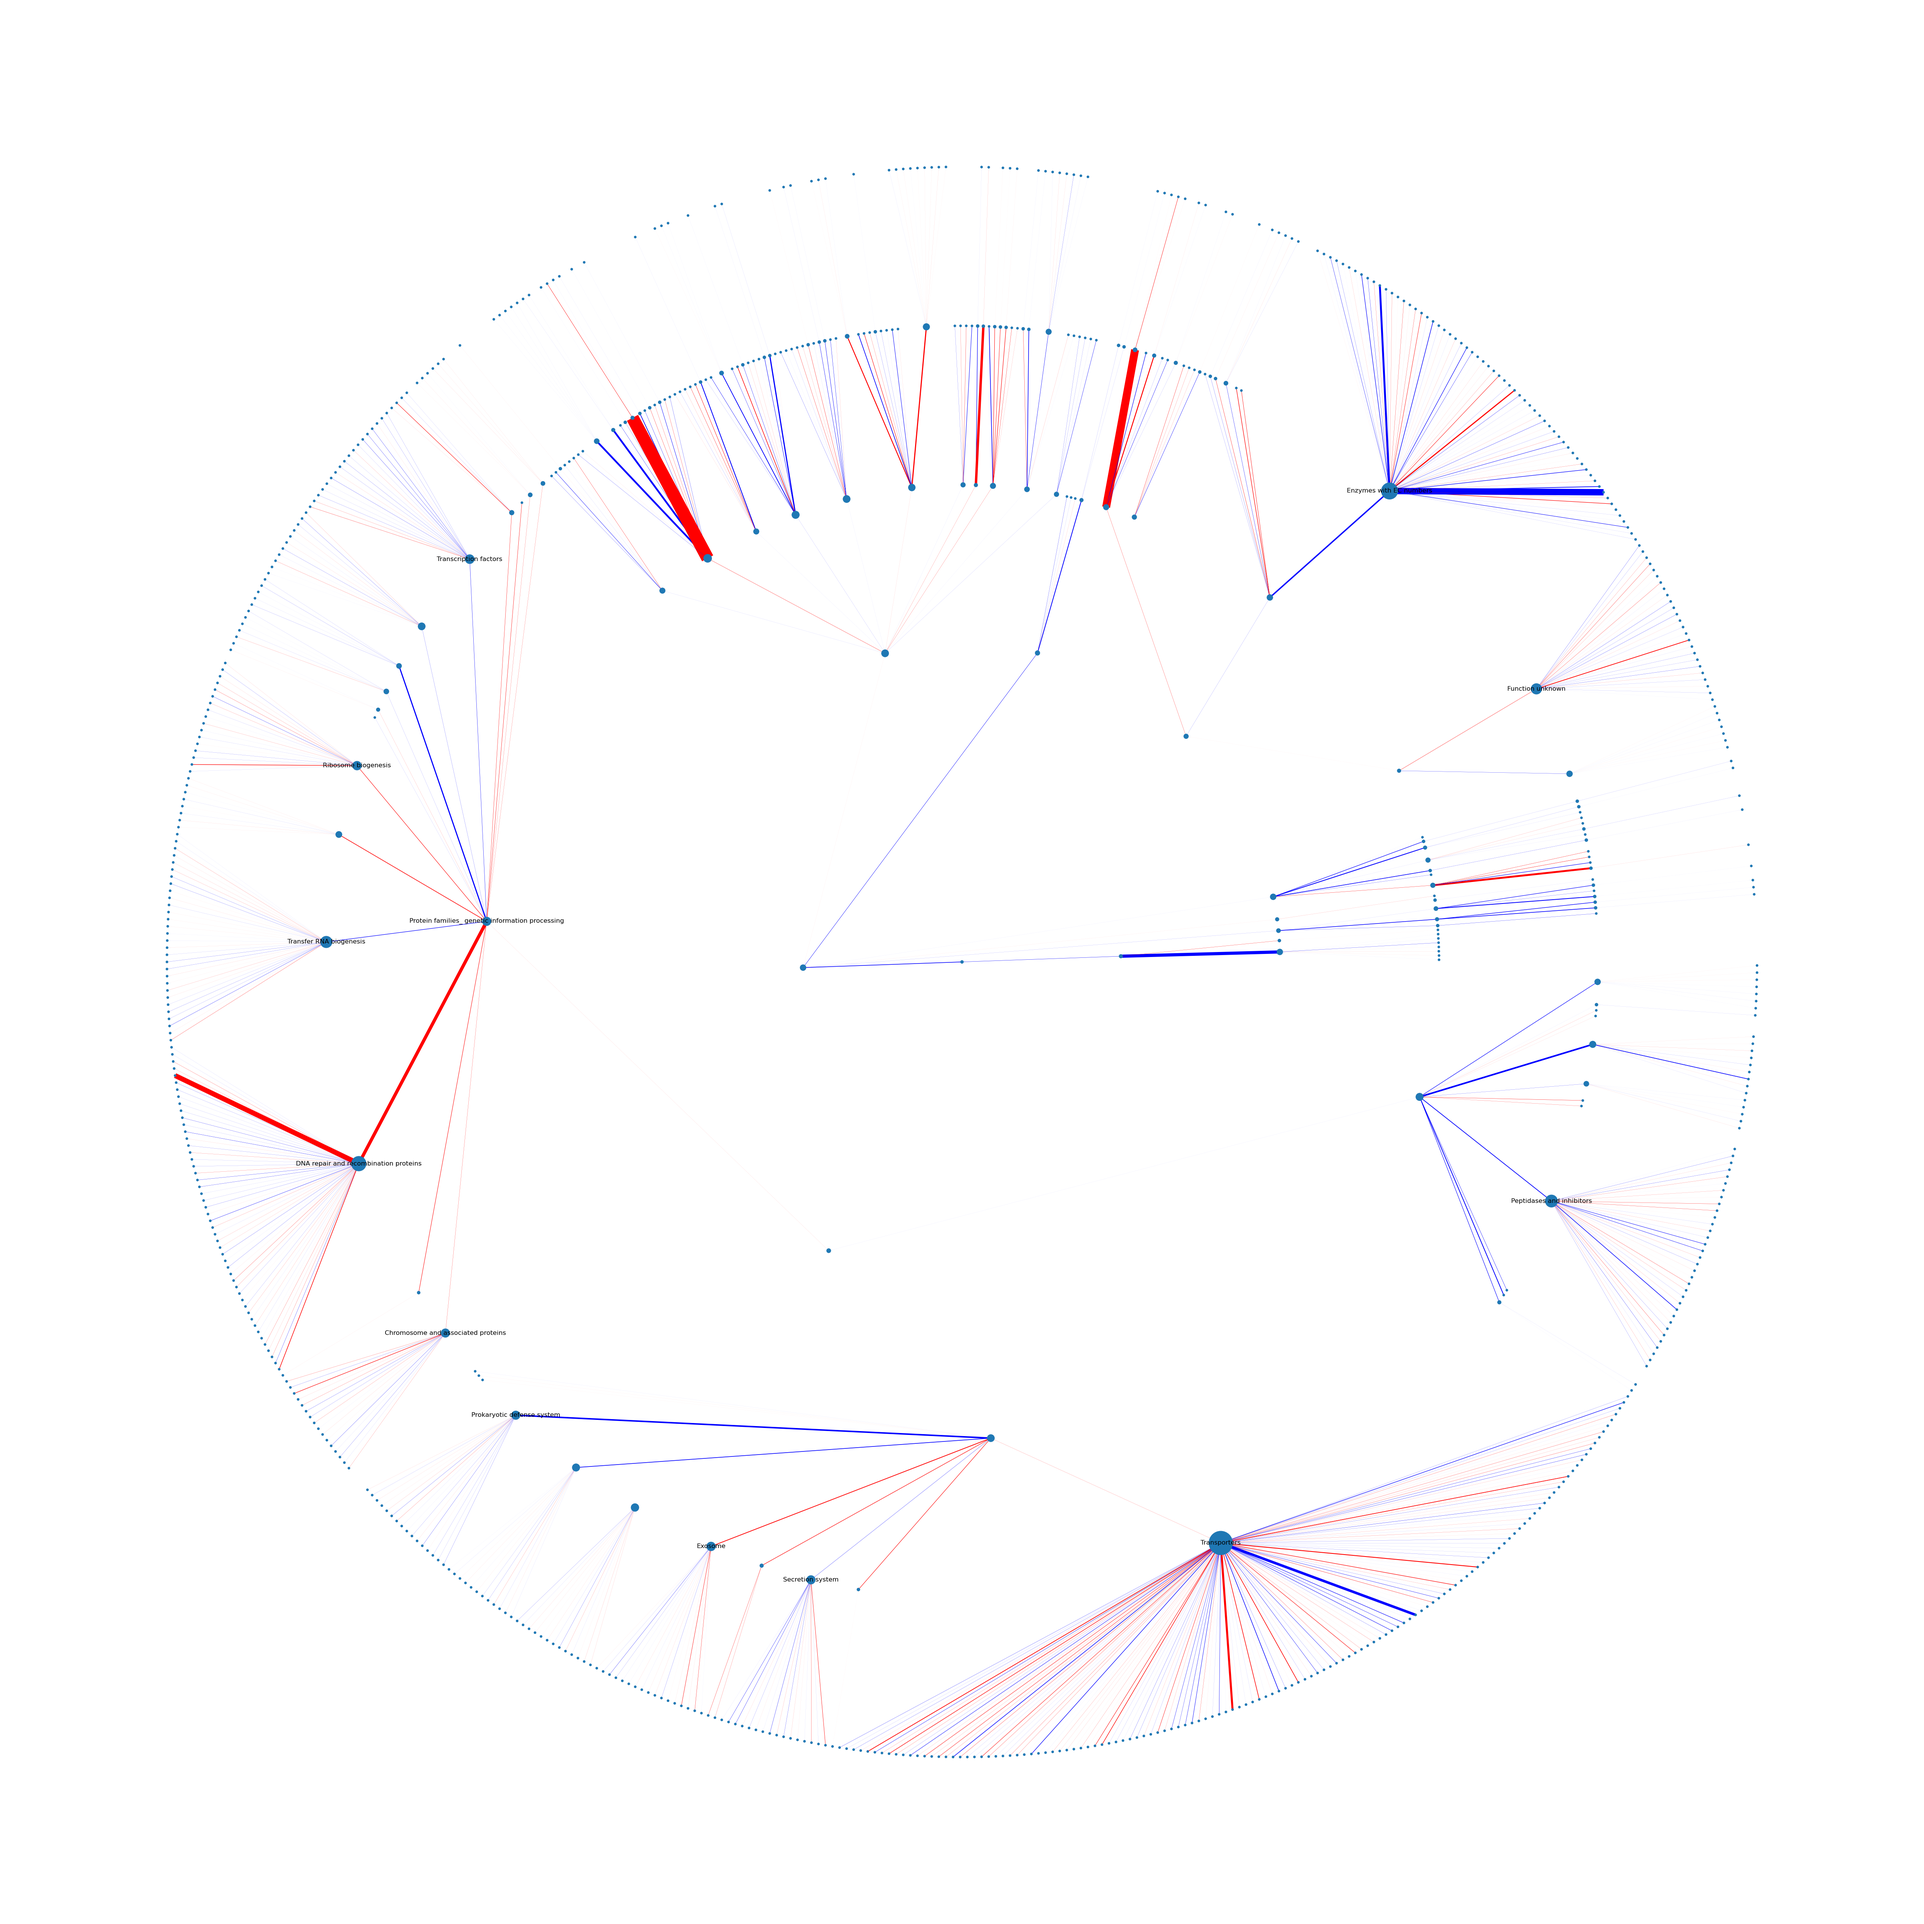
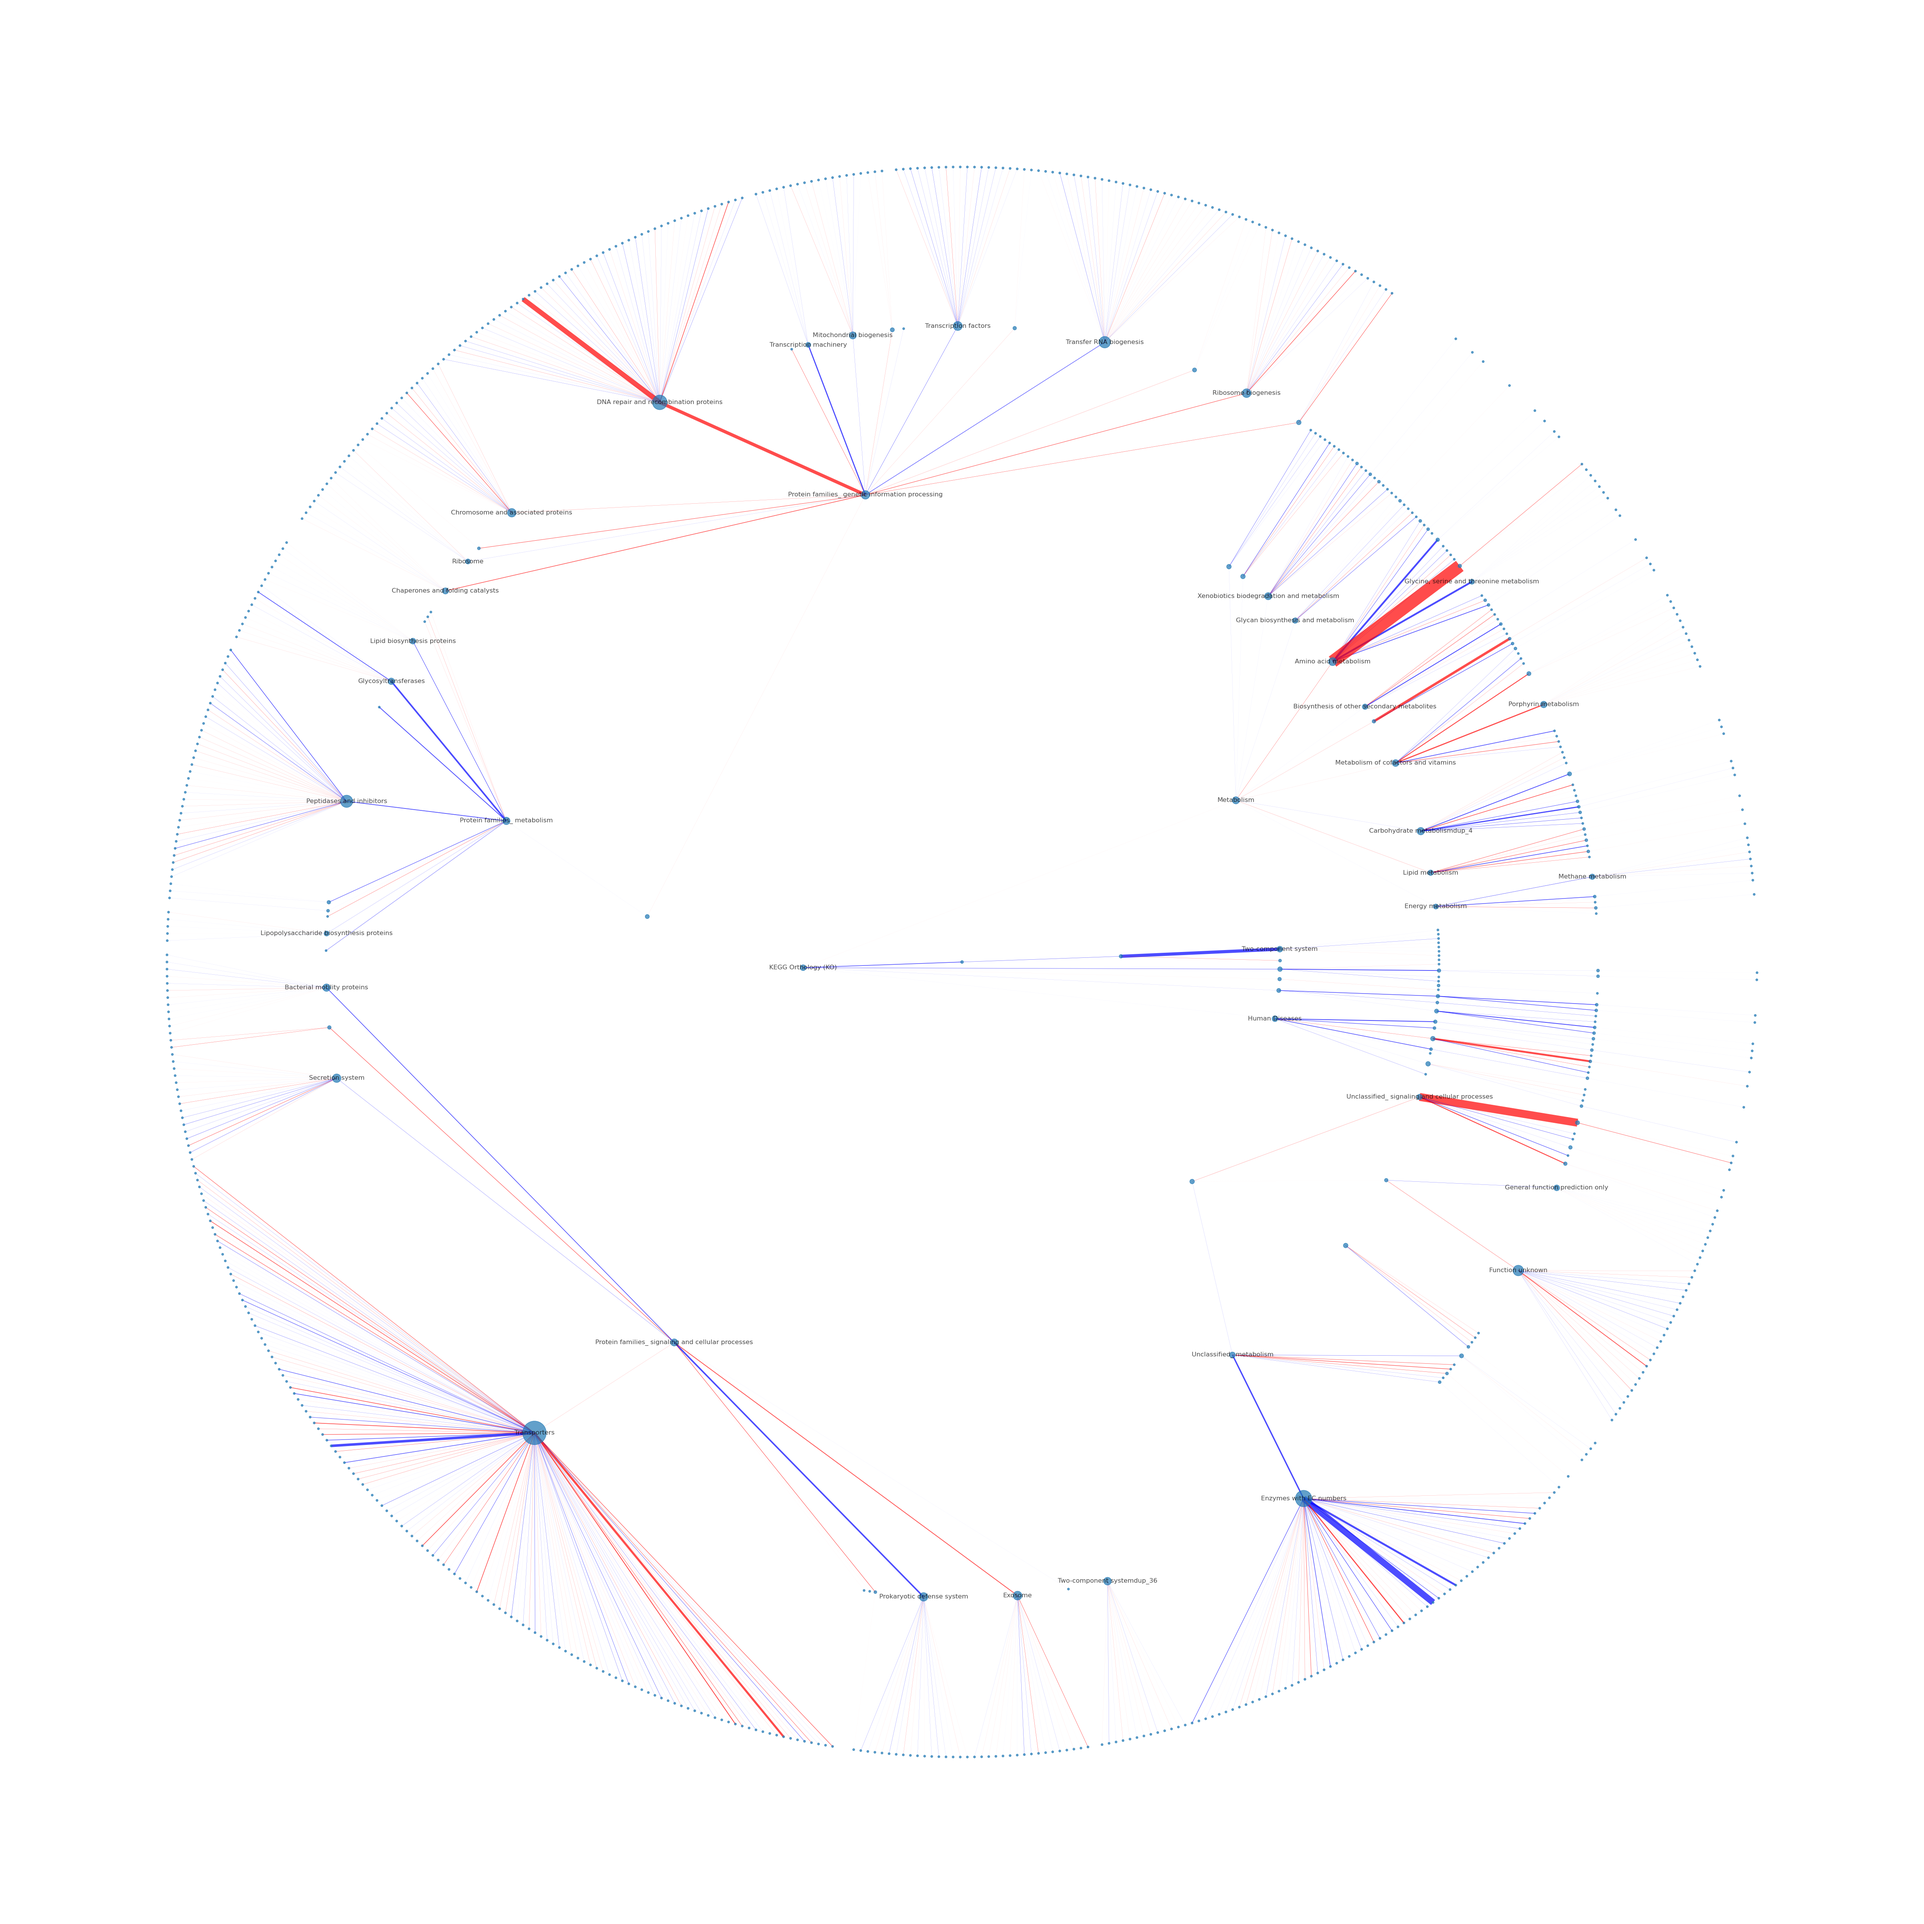
updated plot

diff --git a/scripts/process_diffab.py b/scripts/process_diffab.py
@@ -122,7 +122,7 @@ colors = [T[u][v]['color'] for u, v in T.edges()]
 
 new_labels = {}
 for u in T.nodes():
-    if T.degree(u) <= 15:
+    if T.degree(u) <= 5:
         new_labels[u] = ""
     else:
         new_labels[u] = u
@@ -130,5 +130,5 @@ for u in T.nodes():
 
 node_size_by_degree = [ T.degree(node)*15 for node in T.nodes() ]
 
-nx.draw(T, pos, node_size=node_size_by_degree, with_labels=True, arrows=False, arrowsize=0, width=widths, edge_color=colors, labels=new_labels)
+nx.draw(T, pos, node_size=node_size_by_degree, alpha=0.7, with_labels=True, arrows=False, arrowsize=0, width=widths, edge_color=colors, labels=new_labels)
 plt.savefig('test_mrh.png')
